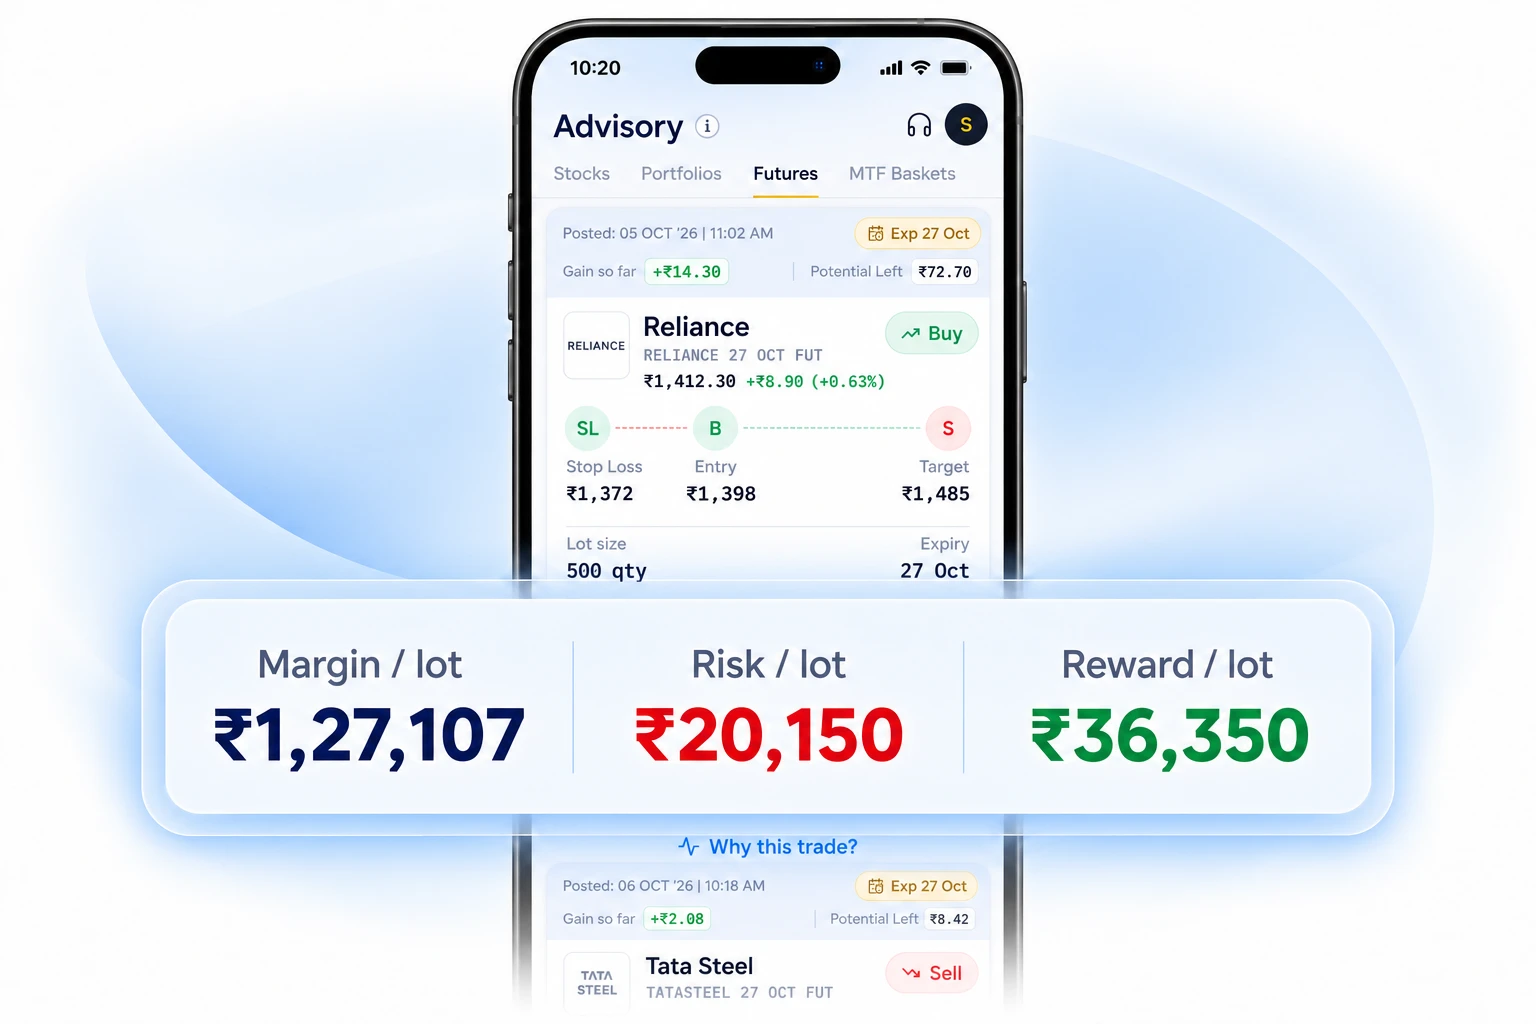
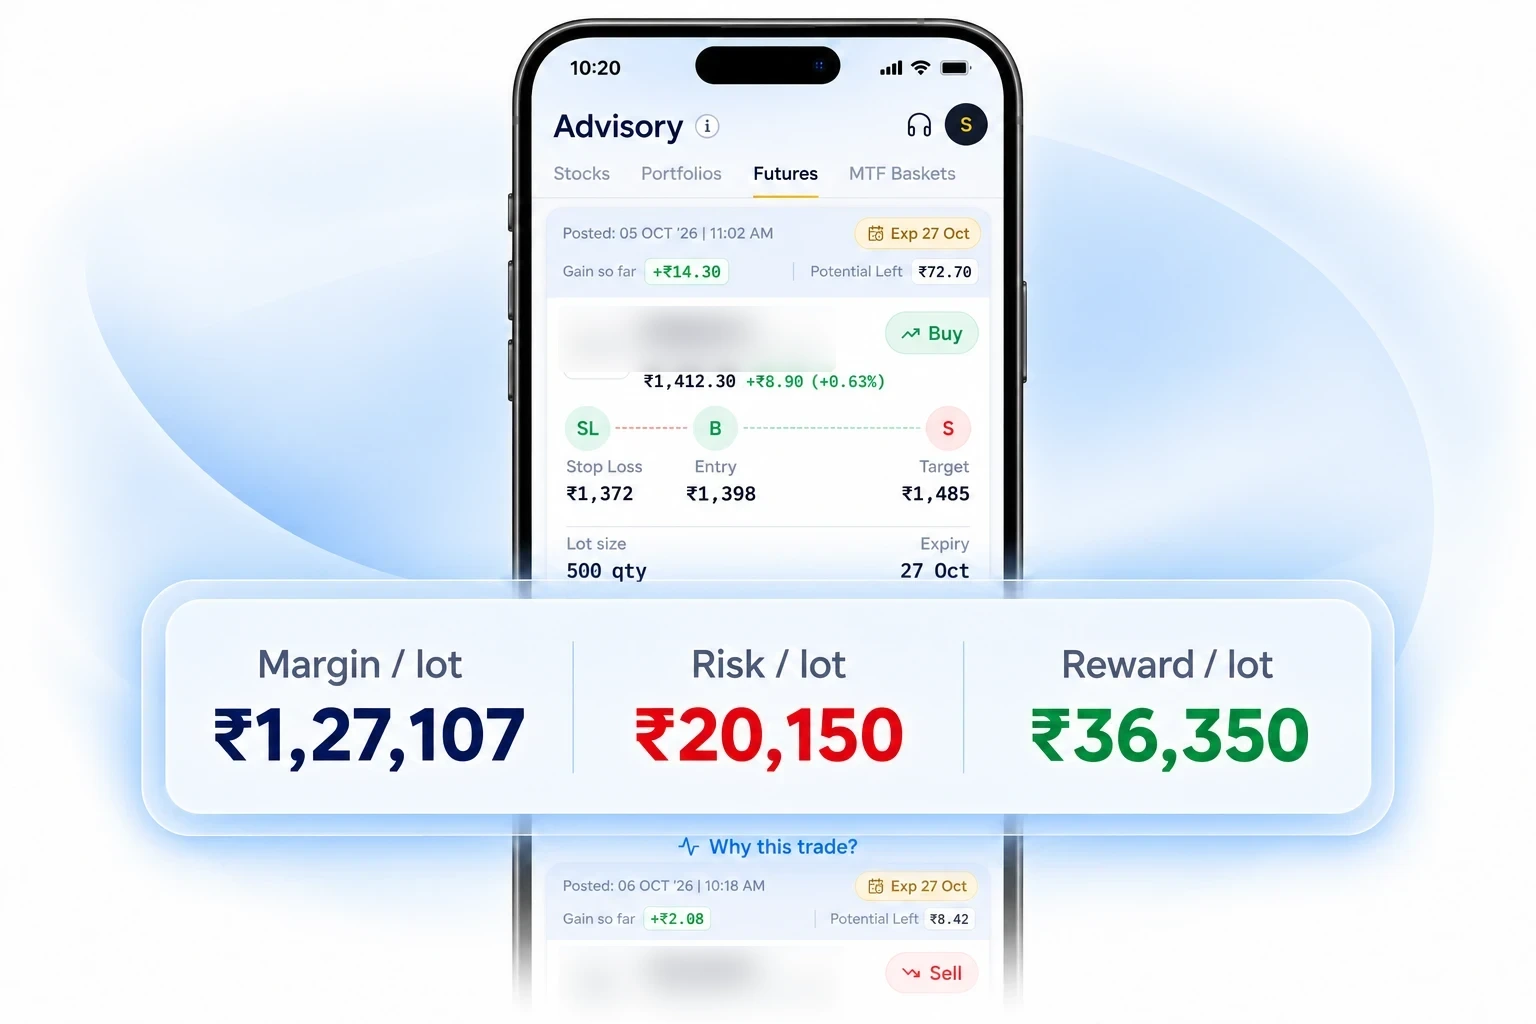
fix: Talk to expert calls the advisory desk, blur stock names in product screenshots

diff --git a/myadvisoralpha-web/src/components/layout/Navbar.tsx b/myadvisoralpha-web/src/components/layout/Navbar.tsx
@@ -13,6 +13,7 @@ import {
   Headset
 } from "lucide-react";
 import MobileNav from "./MobileNav";
+import { EXPERT_PHONE_HREF, openContactPage } from "./contactLinks";
 
 interface NavbarProps {
   onOpenLeadModal?: () => void;
@@ -67,7 +68,7 @@ export default function Navbar({ onOpenLeadModal, onOpenConsultation }: NavbarPr
       if (window.location.pathname === "/") {
         window.dispatchEvent(new CustomEvent("open-consultation-modal"));
       } else {
-        window.location.href = "/contact";
+        openContactPage();
       }
     }
   };
@@ -260,27 +261,25 @@ export default function Navbar({ onOpenLeadModal, onOpenConsultation }: NavbarPr
                 <span>Log in</span>
               </a>
 
-              {/* Talk to expert: opens the advisory consultation form. Hidden where the desktop
-                  links leave no room (lg) and on phones (the drawer has Contact Desk) */}
-              <button
-                type="button"
-                onClick={handleCtaClick}
+              {/* Talk to expert: calls the advisory desk. Hidden where the desktop links
+                  leave no room (md to lg); phones get the compact button below */}
+              <a
+                href={EXPERT_PHONE_HREF}
                 className="hidden xl:inline-flex items-center justify-center gap-1.5 whitespace-nowrap text-sm lg:text-base font-semibold text-white bg-[#164198] hover:bg-[#123577] px-3.5 py-1.5 sm:px-4 sm:py-2 rounded-lg transition-all active:scale-95"
               >
                 <Headset className="w-4 h-4" />
                 <span>Talk to expert</span>
-              </button>
+              </a>
 
               {/* Talk to expert on phones: a compact headset button so the bar keeps its size */}
-              <button
-                type="button"
-                onClick={handleCtaClick}
+              <a
+                href={EXPERT_PHONE_HREF}
                 aria-label="Talk to expert"
                 title="Talk to expert"
                 className="md:hidden inline-flex items-center justify-center shrink-0 w-[30px] h-[30px] rounded-lg text-white bg-[#164198] hover:bg-[#123577] transition-all active:scale-95"
               >
                 <Headset className="w-4 h-4" />
-              </button>
+              </a>
 
               {/* "Get 2 free ideas" - solid gold button */}
               <button

diff --git a/myadvisoralpha-web/src/app/mutual-funds/page.tsx b/myadvisoralpha-web/src/app/mutual-funds/page.tsx
@@ -22,6 +22,7 @@ import { SipChart } from '@/components/sections/HeroPlacard';
 import LeadCaptureModal, { INVESTMENT_GOAL_OPTIONS } from '@/components/modals/LeadCaptureModal';
 import { PhoneCapture, RotatingWord, SectionHeading } from '@/components/sections/ProductPageParts';
 import { REGULATORY_INFO } from '@/data/legal';
+import { EXPERT_PHONE_HREF } from '@/components/layout/contactLinks';
 
 const MF_APP_URL = 'https://link.advisoralpha.in/nav?page=mutual_funds';
 const MF_GOAL = INVESTMENT_GOAL_OPTIONS.find((opt) => opt.value.startsWith('Curated Mutual Funds'))?.value;
@@ -320,13 +321,12 @@ export default function MutualFundsPage() {
               <p className="mt-2 text-sm text-[#081026]/80 leading-relaxed flex-1">
                 Tell us your goal, timeline and risk comfort. We will suggest a basket matched to you.
               </p>
-              <button
-                type="button"
-                onClick={() => openLeadModal()}
+              <a
+                href={EXPERT_PHONE_HREF}
                 className="mt-6 inline-flex items-center justify-center gap-1.5 text-sm font-bold bg-[#081026] text-white rounded-lg px-4 py-2.5 hover:bg-[#164198] transition-colors"
               >
                 Talk to expert <ArrowRight className="w-4 h-4" />
-              </button>
+              </a>
             </div>
           </div>
         </div>

diff --git a/myadvisoralpha-web/src/components/layout/contactLinks.ts b/myadvisoralpha-web/src/components/layout/contactLinks.ts
@@ -1,0 +1,13 @@
+// "Talk to expert" calls this number directly
+export const EXPERT_PHONE = '+918655387834';
+export const EXPERT_PHONE_HREF = `tel:${EXPERT_PHONE}`;
+
+// Goes to the contact page through a real link click, so hosts that serve the
+// site below a sub-path (like the shared preview) can resolve the address
+export function openContactPage() {
+  const link = document.createElement('a');
+  link.href = '/contact';
+  document.body.appendChild(link);
+  link.click();
+  link.remove();
+}

diff --git a/myadvisoralpha-web/src/components/layout/MobileNav.tsx b/myadvisoralpha-web/src/components/layout/MobileNav.tsx
@@ -3,6 +3,7 @@
 import React, { useState } from "react";
 import Image from "next/image";
 import Link from "next/link";
+import { openContactPage } from "./contactLinks";
 import { 
   X, 
   ChevronDown, 
@@ -41,7 +42,7 @@ export default function MobileNav({
       if (window.location.pathname === "/") {
         window.dispatchEvent(new CustomEvent("open-consultation-modal"));
       } else {
-        window.location.href = "/contact";
+        openContactPage();
       }
     }
   };
